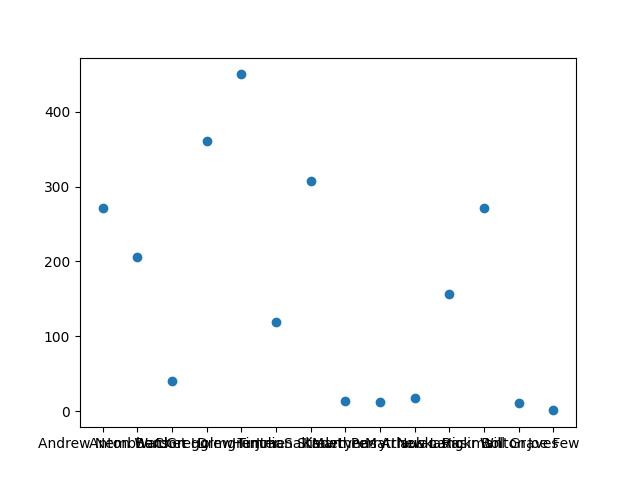
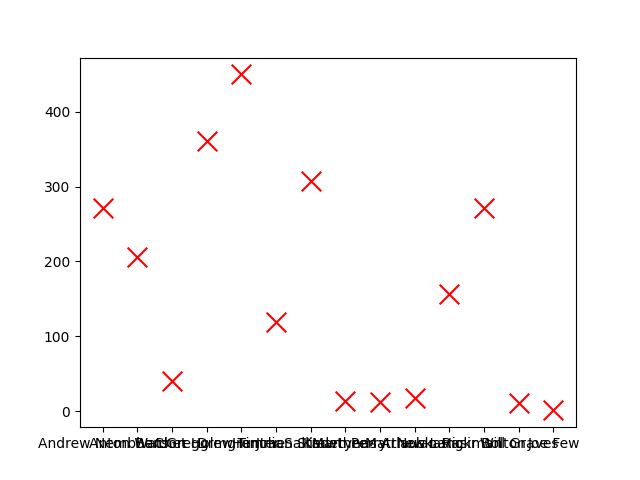
finished

diff --git a/main.py b/main.py
@@ -34,9 +34,17 @@ def line_chart_example(x_ser, y_ser, min_ser):
     
 def scatter_chart_example(x_ser, y_ser):
     plt.figure()
-    plt.scatter(x_ser, y_ser)
+    plt.scatter(x_ser, y_ser, color="red", marker="x", s=200)
     plt.savefig("scatter_example.png")  
 
+def bar_chart_example(x_ser, y_ser):
+    plt.figure()
+    plt.bar(x_ser, y_ser)
+    plt.savefig("bar_example.png")  
+    
+# call bar_chart_example twice
+# 1. pts per player data
+# 2. count of each class
 
 def main():
     df = pd.read_csv("bball.csv", index_col=0)
@@ -96,6 +104,8 @@ def main():
     # 1. scatter
     scatter_chart_example(df.index, df["PTS"])
     # 2. bar
+    bar_chart_example(df.index, df["PTS"])
+    bar_chart_example(class_counts_ser.index, class_counts_ser)
     # 3. pie
     # 4. histogram
     # 5. (later) box plot
